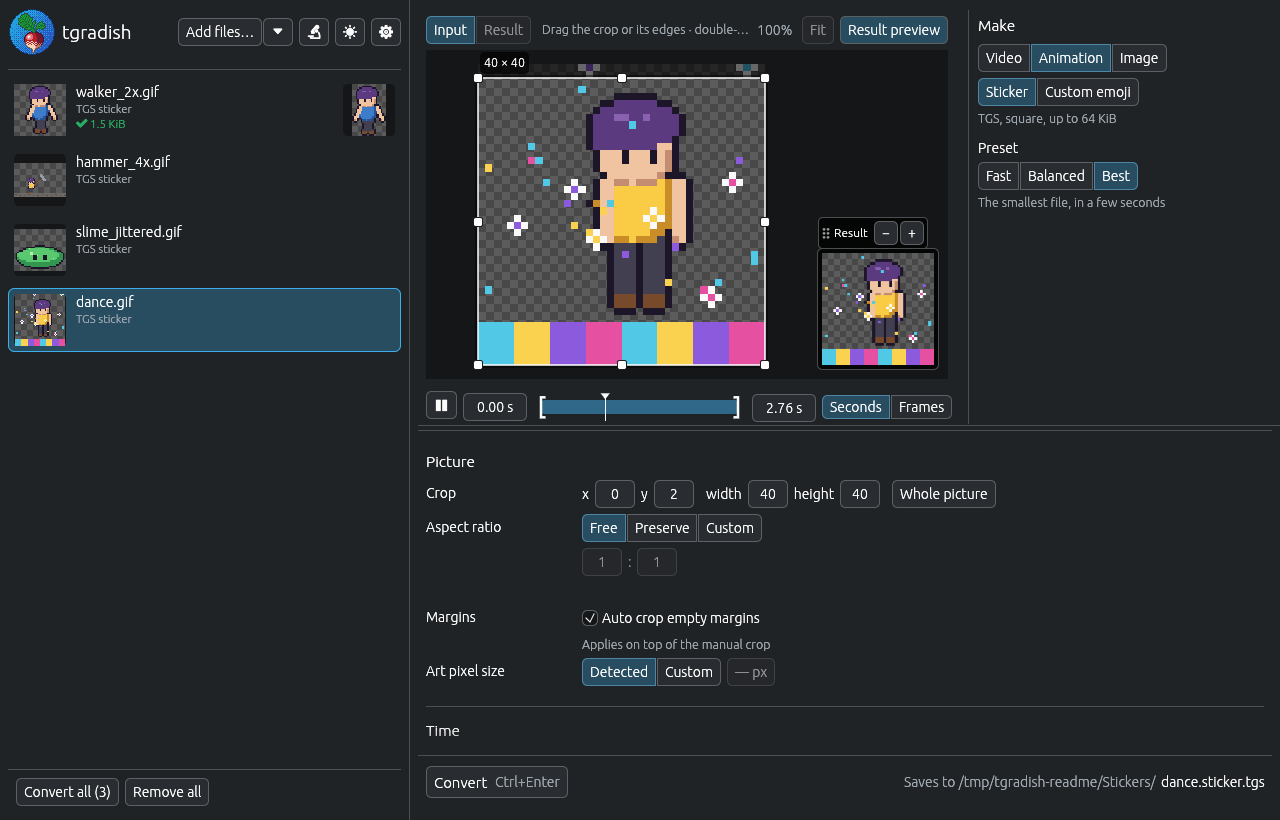
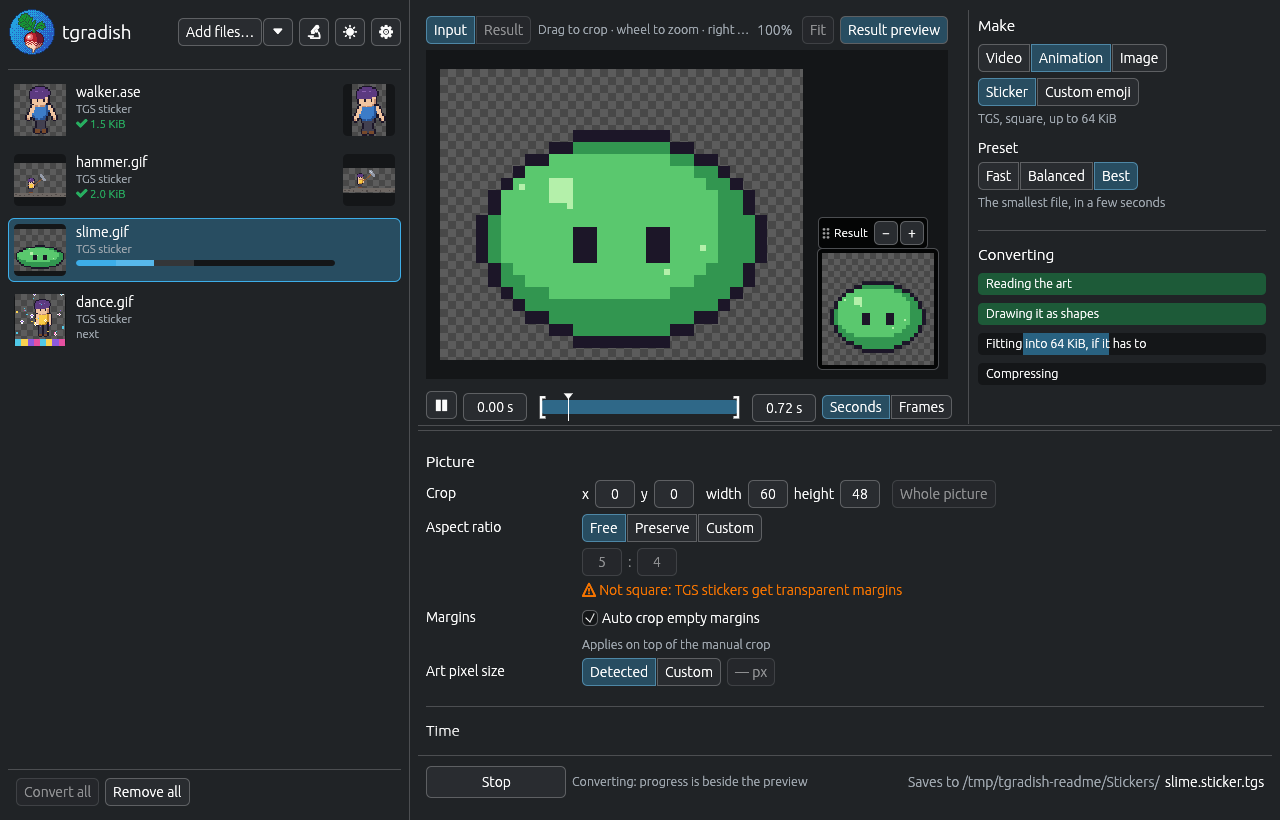
Show the README's window mid-conversion, made again with cargo xtask screenshot
The screenshot focuses the slime while it converts, so the progress bars
show, with two results made and the dance queued. The job under way is
made up and the clock fixed, so each run renders the same image.

diff --git a/crates/gui/src/screenshots.rs b/crates/gui/src/screenshots.rs
@@ -178,8 +178,8 @@ fn screenshots() {
     save(&mut harness, "scaled");
 }
 
-/// The window at work, for the README: `TGRADISH_SCREENSHOTS` says
-/// where it goes.
+/// The window at work, for the README: `cargo xtask screenshot` puts it
+/// in `.github/screenshot.png`; `TGRADISH_SCREENSHOTS` says where it goes.
 #[test]
 #[ignore]
 fn readme_screenshot() {
@@ -189,16 +189,23 @@ fn readme_screenshot() {
     let dir = std::env::temp_dir().join("tgradish-readme");
     let _ = std::fs::remove_dir_all(&dir);
     std::fs::create_dir_all(&dir).unwrap();
-    // the synthetic art the tests use
-    let names = ["hammer_4x.gif", "walker_2x.gif", "dance.gif", "slime_jittered.gif"];
-    let mut inputs = Vec::new();
-    for file in tgradish_corpus::files() {
-        if names.contains(&file.name.as_str()) {
-            let path = dir.join(&file.name);
+    // the synthetic art the tests use, named as people would
+    let names = [
+        ("walker_2x.ase", "walker.ase"),
+        ("hammer_4x.gif", "hammer.gif"),
+        ("slime_jittered.gif", "slime.gif"),
+        ("dance.gif", "dance.gif"),
+    ];
+    let files = tgradish_corpus::files();
+    let inputs: Vec<PathBuf> = names
+        .iter()
+        .map(|(corpus, name)| {
+            let file = files.iter().find(|file| file.name == *corpus).expect("in the corpus");
+            let path = dir.join(name);
             std::fs::write(&path, &file.bytes).unwrap();
-            inputs.push(path);
-        }
-    }
+            path
+        })
+        .collect();
     let mut config = Config::default();
     config.gui.output_dir = Some(dir.join("Stickers"));
     config.gui.theme = tgradish_core::config::Theme::Dark;
@@ -217,19 +224,36 @@ fn readme_screenshot() {
         });
     harness.state_mut().add(inputs);
     finish(&mut harness);
-    // one made, another chosen, with the result's small picture
-    let first = harness.state().items[0].id;
-    harness.state_mut().select(first);
-    harness.run_steps(2);
-    convert(&harness);
-    harness.run_steps(2);
-    finish(&mut harness);
-    let shown = harness.state().items[3].id;
+    // converting them all: two made, the slime under way and shown, with
+    // the result's small picture, and the dance next
+    for index in 0..2 {
+        let id = harness.state().items[index].id;
+        harness.state_mut().select(id);
+        harness.run_steps(2);
+        convert(&harness);
+        harness.run_steps(2);
+        finish(&mut harness);
+    }
+    let shown = harness.state().items[2].id;
     harness.state_mut().select(shown);
-    let item = &mut harness.state_mut().items[3];
+    let item = &mut harness.state_mut().items[2];
+    item.view.show = Show::Input;
     item.view.inset = true;
-    // a square crop, its handles out
-    item.choices.crop = Some(Crop { x: 0, y: 2, width: 40, height: 40 });
+    // drawn, and seeing whether it fits, as a moment of a real one is: a
+    // job made up, so the picture is the same each time
+    let mut job = Job::waiting(dir.join("Stickers/slime.sticker.tgs"));
+    job.status = Status::Running;
+    job.progress.tgs = Some(jobs::TgsStage::Fitting);
+    item.job = Some((job, Format::Tgs, item.choices.clone()));
+    let state = harness.state_mut();
+    let next = &mut state.items[3];
+    let job = Job::waiting(dir.join("Stickers/dance.sticker.tgs"));
+    next.job = Some((job, Format::Tgs, next.choices.clone()));
+    let id = next.id;
+    state.queue.push_back(id);
+    // the bars' moving band in one place each time, however many frames
+    // the conversions above took
+    harness.input_mut().time = Some(1000.5);
     harness.event(egui::Event::PointerGone);
     harness.run_steps(3);
     std::thread::sleep(Duration::from_millis(300));

diff --git a/xtask/src/main.rs b/xtask/src/main.rs
@@ -43,12 +43,17 @@
 //! `cargo xtask icons [--check]` makes the icons for menus and the Windows
 //! executable from the window's own, `crates/gui/assets/icon.png`;
 //! `--check` fails if they are out of date.
+//!
+//! `cargo xtask screenshot` renders the window at work from the synthetic
+//! art to `.github/screenshot.png`, the README's picture of it. Needs a
+//! GPU wgpu can use.
 
 mod ffmpeg;
 mod icons;
 mod licences;
 mod package;
 mod release;
+mod screenshot;
 
 use std::path::Path;
 use std::process::Command;
@@ -64,13 +69,15 @@ fn main() -> Result<()> {
         Some("licenses") => licences::crate_licenses(&args[1..]),
         Some("icons") => icons::icons(&args[1..]),
         Some("local-release") => release::local_release(&args[1..]),
+        Some("screenshot") => screenshot::screenshot(&args[1..]),
         _ => bail!(
             "usage: cargo xtask ffmpeg [--target TARGET] [--no-asm]\n       \
              cargo xtask ffmpeg-sources\n       \
              cargo xtask package --target TARGET [--system-ffmpeg] [--max-glibc 2.28]\n       \
              cargo xtask licenses [--check]\n       \
              cargo xtask icons [--check]\n       \
-             cargo xtask local-release [--targets TARGET,...] [--no-asm]\n\
+             cargo xtask local-release [--targets TARGET,...] [--no-asm]\n       \
+             cargo xtask screenshot\n\
              targets: linux-x86_64, linux-aarch64, windows-x86_64"
         ),
     }

diff --git a/xtask/src/screenshot.rs b/xtask/src/screenshot.rs
@@ -1,0 +1,29 @@
+//! The README's picture of the window, rendered by one of the window's
+//! tests from the synthetic art, so it can be made again as the window
+//! changes.
+
+use anyhow::{Context, Result, bail};
+
+use crate::{cargo, run, workspace_root};
+
+/// Renders the window at work to `.github/screenshot.png`. Needs a GPU
+/// wgpu can use.
+pub fn screenshot(args: &[String]) -> Result<()> {
+    if !args.is_empty() {
+        bail!("usage: cargo xtask screenshot");
+    }
+    let root = workspace_root();
+    let dir = root.join("target/screenshots");
+    std::fs::create_dir_all(&dir)?;
+    run(cargo()
+        .current_dir(root)
+        .args(["test", "-p", "tgradish-gui", "--lib", "--", "--ignored", "--exact"])
+        .arg("screenshots::readme_screenshot")
+        .env("TGRADISH_SCREENSHOTS", &dir))?;
+    let rendered = dir.join("tgradish-readme.png");
+    let to = root.join(".github/screenshot.png");
+    std::fs::copy(&rendered, &to)
+        .with_context(|| format!("could not copy {}", rendered.display()))?;
+    println!("{}", to.display());
+    Ok(())
+}

diff --git a/CONTRIBUTING.md b/CONTRIBUTING.md
@@ -64,8 +64,8 @@ print "skipped" and pass without. `nix develop` gives everything below.
   (cmake, ninja and clang).
 - The window as pictures, which needs a GPU:
   `TGRADISH_SCREENSHOTS=/tmp/shots cargo test -p tgradish-gui -- --ignored screenshot`,
-  into a folder that exists. `tgradish-readme.png` is the README's
-  `.github/screenshot.png`.
+  into a folder that exists. `cargo xtask screenshot` renders the README's
+  `.github/screenshot.png` again, after the window changes.
 
 CI also runs `cargo fmt --all --check`, clippy with `-D warnings` with and
 without the window, `cargo xtask icons --check` and `cargo xtask licenses
